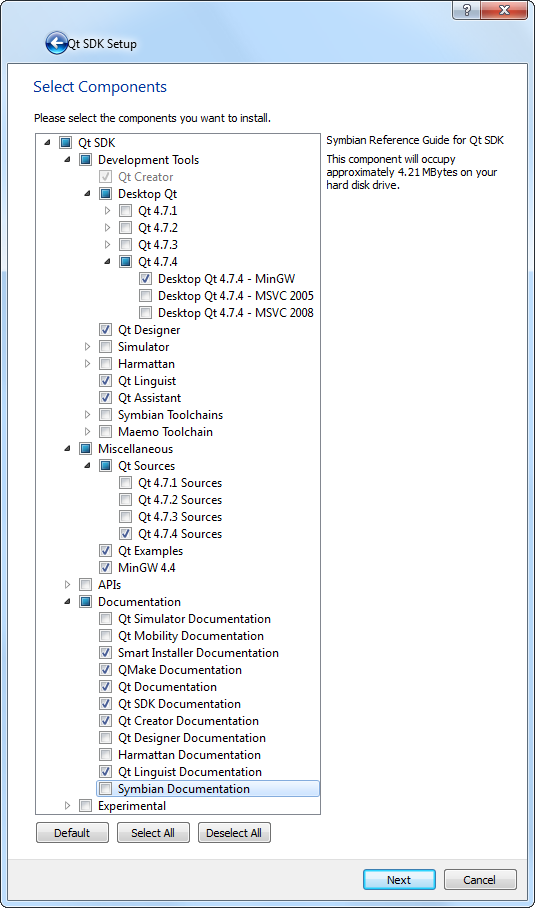
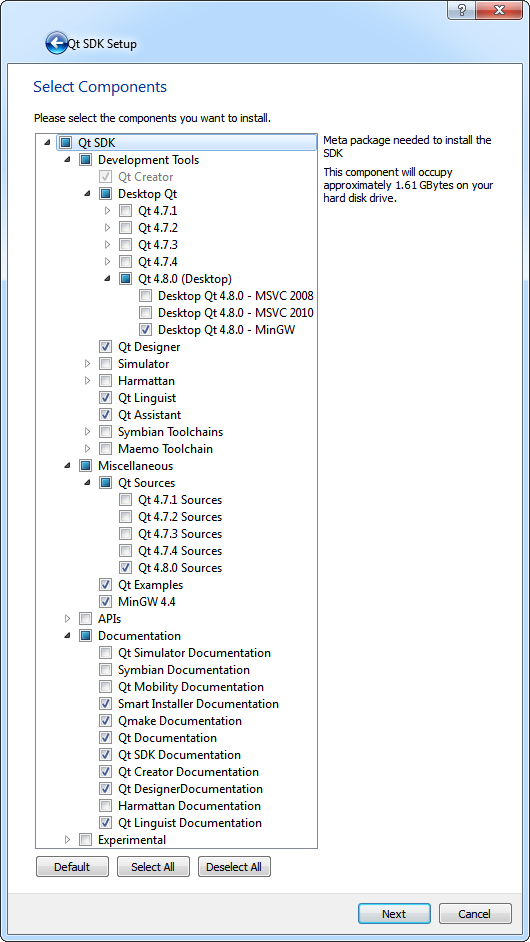
Updated the developer's documentation to reflect our upgrading from Qt 4.7.4 to Qt 4.8.0.

Changed region(s): [[0.0302, 0.0308, 0.9962, 0.9559], [0.0302, 0.9559, 0.9962, 1.0], [0.8453, 0.0, 0.966, 0.0308]]

diff --git a/doc/developer/preRequirements.html b/doc/developer/preRequirements.html
@@ -44,7 +44,7 @@
                 </ul>
             </li>
             <li>
-                <a href="http://qt.nokia.com/">Qt</a> SDK 1.1.4: this combines Qt 4.7.4 (a cross-platform application and UI framework) and Qt Creator 2.4.0 (a cross-platform environment for Qt), among other things:
+                <a href="http://qt.nokia.com/">Qt</a> SDK 1.1.4: this combines Qt 4.8.0 (a cross-platform application and UI framework) and Qt Creator 2.4.0 (a cross-platform environment for Qt), among other things:
                 <ul>
                     <li><a href="http://qt.nokia.com/downloads/sdk-windows-cpp">Windows</a>;</li>
                     <li>
@@ -53,21 +53,7 @@
                             <strong>Note:</strong> we would recommend sudo installing the SDK, so that it gets installed under under <code>/opt/QtSDK</code> rather than under your home directory.
                         </div>
                     </li>
-                    <li>
-                        <a href = "http://qt.nokia.com/downloads/sdk-mac-os-cpp">Mac OS X</a>: you might want to install the SDK under <code>/Developer</code> rather than your home folder as suggested by the installer.
-                        <div>
-                            <strong>Note:</strong> there is a <a href="https://bugreports.qt.nokia.com/browse/QTBUG-21339">very minor bug</a> in Qt 4.7.4 which, when building a Qt application on <a href="http://www.apple.com/macosx/">Mac OS X</a> 10.7 (Lion), results in loads of warnings being generated. It is nothing to be concerned about, but if you want to get rid of those warnings, then sudo edit both <code>/Developer/QtSDK/Desktop/Qt/474/gcc/include/QtCore/qglobal.h</code> and <code>/Developer/QtSDK/Desktop/Qt/474/gcc/lib/QtCore.framework/Versions/4/Headers/qglobal.h</code> (from line 319):
-                            <pre class="good prettyprint">#  if !defined(MAC_OS_X_VERSION_10_7)
-#       define MAC_OS_X_VERSION_10_7 MAC_OS_X_VERSION_10_6 + 1
-#  endif
-#  if (MAC_OS_X_VERSION_MAX_ALLOWED > MAC_OS_X_VERSION_10_7)
-#    warning "This version of Mac OS X is unsupported"
-#  endif</pre>
-                            <pre class="bad prettyprint">#  if (MAC_OS_X_VERSION_MAX_ALLOWED > MAC_OS_X_VERSION_10_6)
-#    warning "This version of Mac OS X is unsupported"
-#  endif</pre>
-                        </div>
-                    </li>
+                    <li><a href = "http://qt.nokia.com/downloads/sdk-mac-os-cpp">Mac OS X</a>: you might want to install the SDK under <code>/Developer</code> rather than your home folder as suggested by the installer.</li>
                 </ul>
                 <div>
                     <strong>Note:</strong> the Qt SDK will, by default, install everything that is needed to build OpenCOR (except, on Windows, for the <code>MinGW 4.4</code> package which needs to be manually selected from the <code>Qt SDK|Miscellaneous</code> category), so it is pretty much up to you which package(s) you want to install (you can always add/remove packages later on, if wanted/needed). Just for reference, <a href="res/pics/QtSDK.png">here</a> are the packages that we selected for our Windows build (it is very similar on Linux and Mac OS X).
@@ -77,7 +63,7 @@
         </ul>
 
         <p>
-            Note that our build environment requires the version of Qt mentioned above, i.e. 4.7.4. It may be that OpenCOR could be built using an earlier version of Qt, but this is not supported (and not recommended either). Still, should you want to give it a try, then look for <code>FIND_PACKAGE(Qt4 4.7.4 REQUIRED)</code> in <a href="https://github.com/opencor/opencor/blob/master/cmake/common.cmake"><code>[OpenCOR]/cmake/common.cmake</code></a> and replace <code>4.7.4</code> with whatever version of Qt that you want to use.
+            Note that our build environment requires the version of Qt mentioned above, i.e. 4.8.0. It may be that OpenCOR could be built using an earlier version of Qt, but this is not supported (and not recommended either). Still, should you want to give it a try, then look for <code>FIND_PACKAGE(Qt4 4.8.0 REQUIRED)</code> in <a href="https://github.com/opencor/opencor/blob/master/cmake/common.cmake"><code>[OpenCOR]/cmake/common.cmake</code></a> and replace <code>4.8.0</code> with whatever version of Qt that you want to use.
         </p>
 
         <p>
@@ -85,9 +71,9 @@
         </p>
 
         <ul>
-            <li>Windows: <code>C:\Program Files (x86)\CMake 2.8\bin</code> (or <code>C:\Program Files\CMake 2.8\bin</code> if you are running a 32-bit version of Windows), <code>C:\QtSDK\mingw\bin</code> and <code>C:\QtSDK\Desktop\Qt\4.7.4\mingw\bin</code>;</li>
-            <li>Linux: <code>/opt/QtSDK/Desktop/Qt/474/gcc/bin</code> (in <code>/etc/environment</code> on Ubuntu); and</li>
-            <li>Mac OS X: <code>/Developer/QtSDK/Desktop/Qt/474/gcc/bin</code> (in <code>/etc/profile</code>).</li>
+            <li>Windows: <code>C:\Program Files (x86)\CMake 2.8\bin</code> (or <code>C:\Program Files\CMake 2.8\bin</code> if you are running a 32-bit version of Windows), <code>C:\QtSDK\mingw\bin</code> and <code>C:\QtSDK\Desktop\Qt\4.8.0\mingw\bin</code>;</li>
+            <li>Linux: <code>/opt/QtSDK/Desktop/Qt/4.8.0/gcc/bin</code> (in <code>/etc/environment</code> on Ubuntu); and</li>
+            <li>Mac OS X: <code>/Developer/QtSDK/Desktop/Qt/4.8.0/gcc/bin</code> (in <code>/etc/profile</code>).</li>
         </ul>
 
         <div class="copyright">
